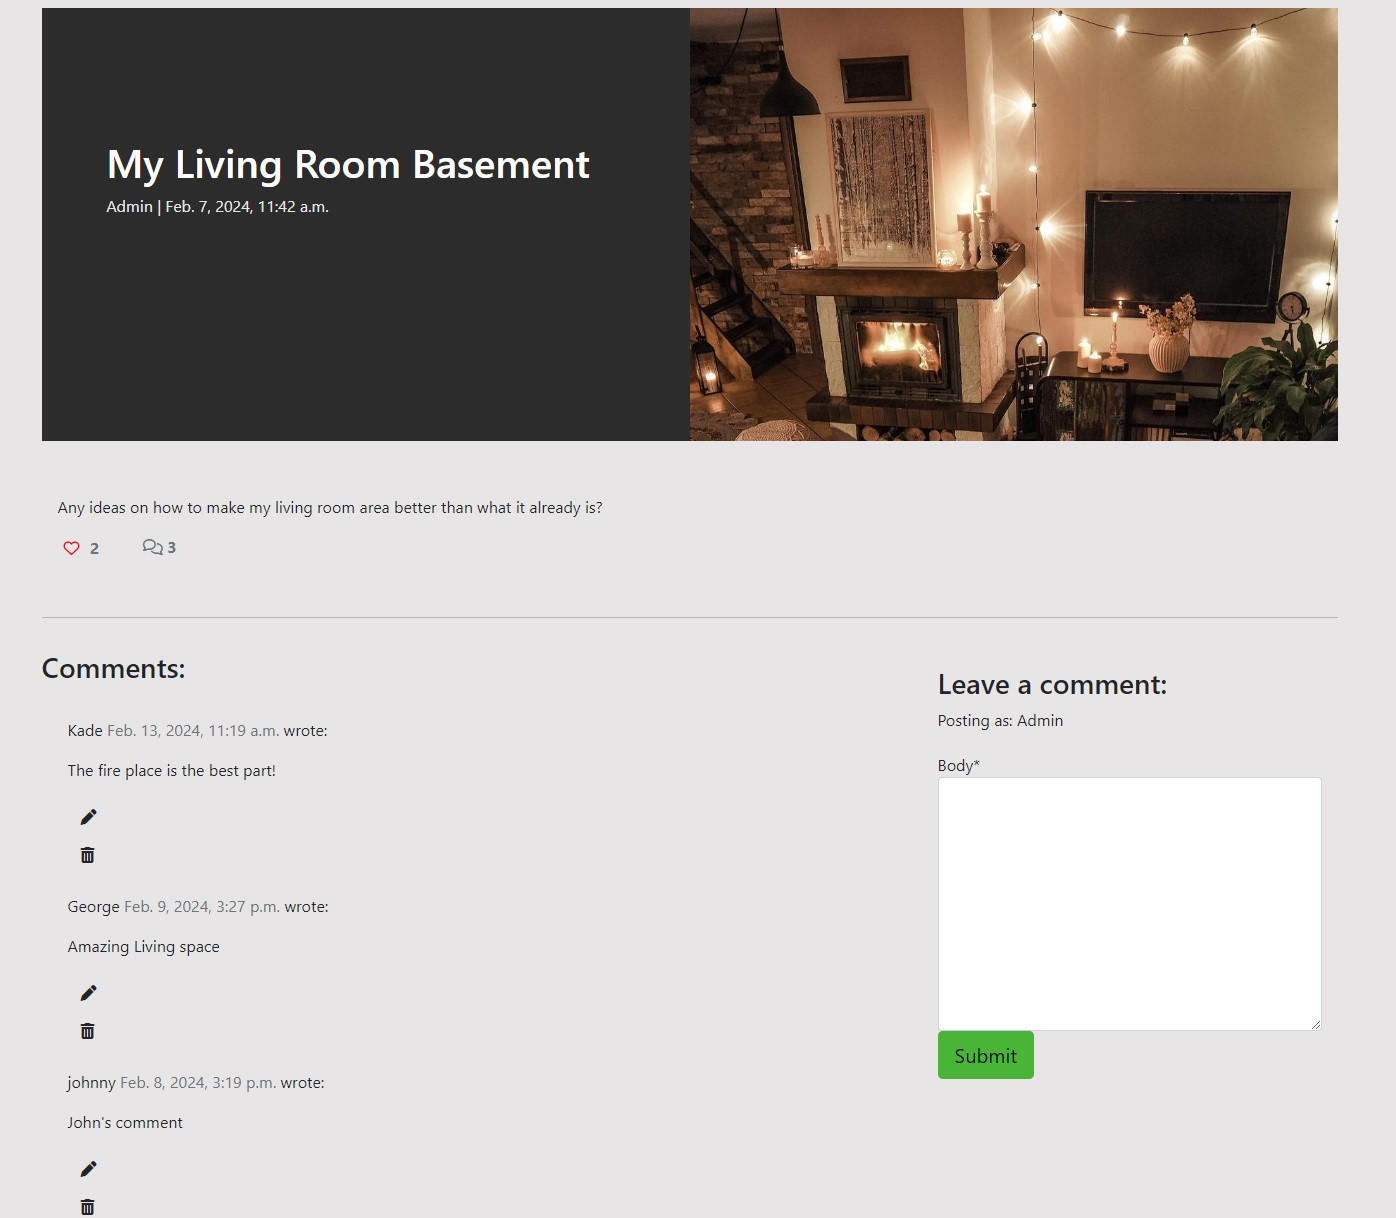
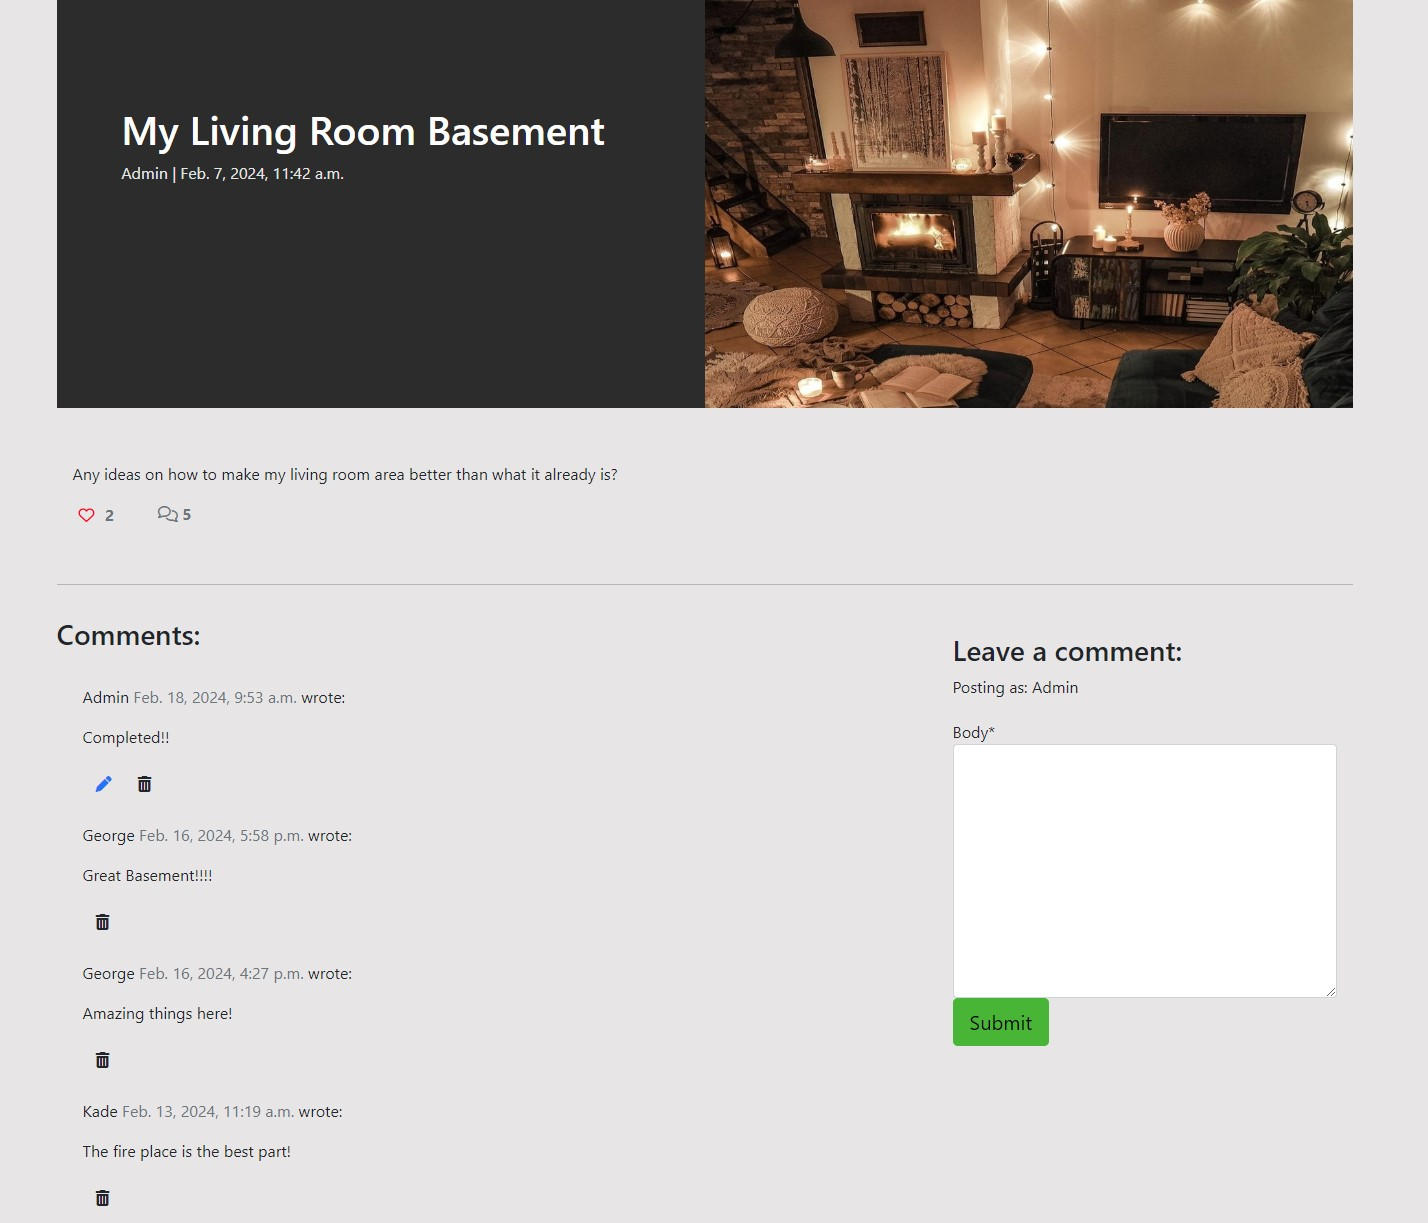
Change Image for post-details and add ERD to README file

diff --git a/README.md b/README.md
@@ -155,6 +155,12 @@ Post Detail page:
     - Fontawesome
     - Heroku
 
+## Entity Relationship Diagram
+
+Here I created a ERD for my blog model.
+
+![ERD](media/documentation/erd.jpg)
+
 ## Testing
 
 ### Validator Testing
@@ -172,5 +178,13 @@ Post Detail page:
 ## Deployment
 
 ## Credits
+
+### Resources Used
+
+Code Institute - I THINK THEREFORE I BLOG
+
+UpdateView - https://www.geeksforgeeks.org/updateview-class-based-views-django/?ref=lbp
+
+Used for Wireframes - https://www.figma.com/
 
 ### Acknowledgements
